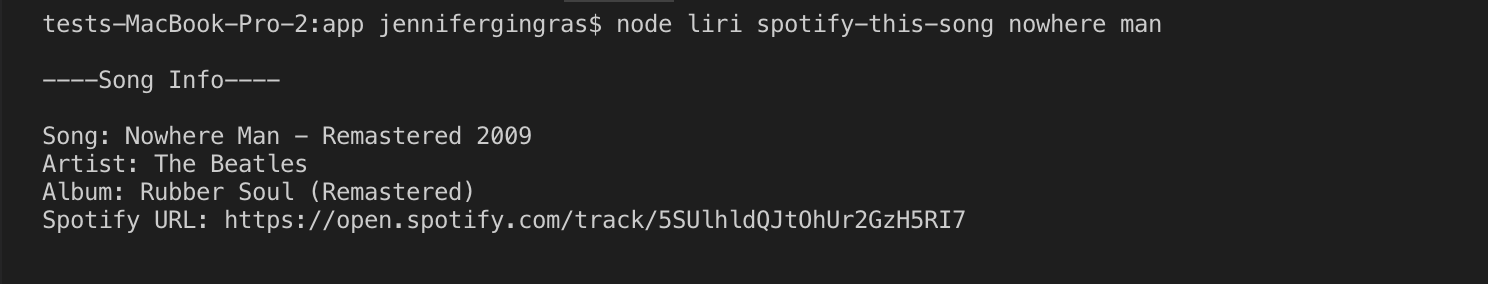
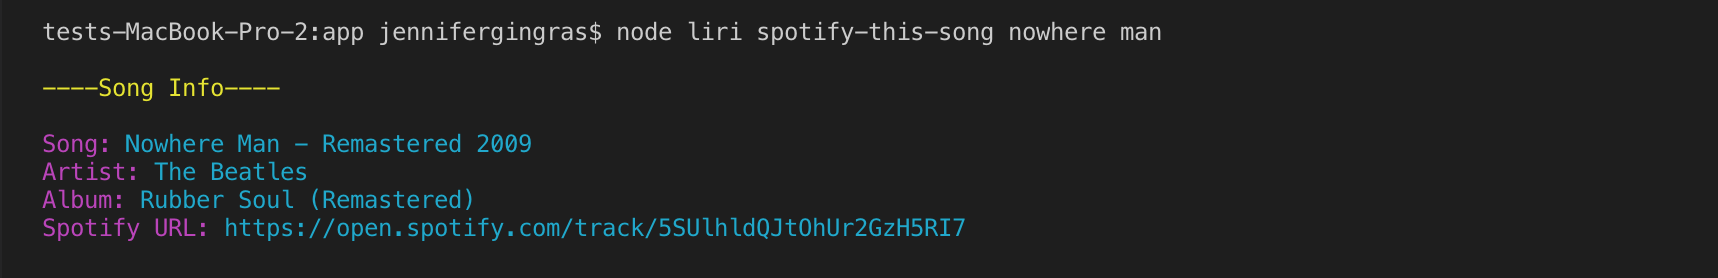
added color to response text

diff --git a/app/liri.js b/app/liri.js
@@ -4,7 +4,13 @@ var moment = require("moment");
 var Spotify = require('node-spotify-api');
 var axios = require("axios");
 var fs = require("fs");
+var chalk = require("chalk");
 
+// text colors
+var title = chalk.yellow;
+var errorMes = chalk.red;
+var listBold = chalk.magenta;
+var list = chalk.cyan;
 
 // BANDS IN TOWN SEARCH
 // ----------------------
@@ -16,17 +22,17 @@ var concert = function (query) {
   var URL = "https://rest.bandsintown.com/artists/" + artist + "/events?app_id=codingbootcamp"
   // use axios.get with query variable
   if (!artist) {
-    console.log("\n-!! Try again, please. Remember to type in an artist or band. !!-\n")
+    console.log(errorMes("\n-!! Try again, please. Remember to type in an artist or band. !!-\n"));
   }
   axios.get(URL).then(function (response, ) {
     // console.log data (name of venue, venue location, date of event (use moment- blech! - to format as MM/DD/YYYY))
     // NB - put each piece of data on a separate line
     var data = response.data[0];
     var time = moment(data.datetime).format("MMMM Do YYYY, h:mm: a");
-    console.log("\n----Upcoming Concert Info----\n" +
-      "\nVenue: " + data.venue.name +
-      "\nLocation: " + data.venue.city + ", " + data.venue.country +
-      "\nTime: " + time +
+    console.log(title("\n----Upcoming Concert Info----\n") + listBold(
+        "\nVenue: ") + list(data.venue.name) + listBold(
+        "\nLocation: ") + list(data.venue.city + ", " + data.venue.country) +
+      listBold("\nTime: ") + list(time) +
       "\n\n");
   });
 
@@ -47,14 +53,14 @@ var spotifySong = function (query) {
         limit: 10,
       })
       .then(function (response) {
-        console.log("\n\n-!! You didn't pick a song, so you get this. !!-")
+        console.log(errorMes("\n\n-!! You didn't pick a song, so you get this. !!-"));
         var data = response.tracks.items[0];
-        console.log("\n----Song Info----\n" +
-          "\nSong: " + data.name +
-          "\nArtist: " + data.artists[0].name +
-          "\nAlbum: " + data.album.name +
-          "\nSpotify URL: " + data.external_urls.spotify +
-          "\n\n")
+        console.log(title("\n----Song Info----\n") + listBold(
+            "\nSong: ") + list(data.name) + listBold(
+            "\nArtist: ") + list(data.artists[0].name) + listBold(
+            "\nAlbum: ") + list(data.album.name) + listBold(
+            "\nSpotify URL: ") + list(data.external_urls.spotify) +
+          "\n\n");
       })
   } else {
     spotify.search({
@@ -65,12 +71,12 @@ var spotifySong = function (query) {
       .then(function (response) {
         // console.log data (artist, song's name, preview lin of song from Spotify, album name)
         var data = response.tracks.items[0];
-        console.log("\n----Song Info----\n" +
-          "\nSong: " + data.name +
-          "\nArtist: " + data.artists[0].name +
-          "\nAlbum: " + data.album.name +
-          "\nSpotify URL: " + data.external_urls.spotify +
-          "\n\n")
+        console.log(title("\n----Song Info----\n") + listBold(
+            "\nSong: ") + list(data.name) + listBold(
+            "\nArtist: ") + list(data.artists[0].name) + listBold(
+            "\nAlbum: ") + list(data.album.name) + listBold(
+            "\nSpotify URL: ") + list(data.external_urls.spotify) +
+          "\n\n");
       })
   }
 }
@@ -88,23 +94,23 @@ var movie = function (query) {
   // create default for no input
   if (!movieTitle) {
     URL = "http://www.omdbapi.com/?t=mr+nobody&apikey=trilogy&"
-    console.log("\n-!! You didn't pick a movie, so you get this. !!-")
+    console.log(errorMes("\n-!! You didn't pick a movie, so you get this. !!-"));
   }
   // use axios.get with query variable
   axios.get(URL).then(function (response) {
       var data = response.data;
       if (data.Title === undefined) {
-        console.log("\n\n--Could not find title. Check your spelling and try again.--\n\n")
+        console.log(errorMes("\n\n--Could not find title. Check your spelling and try again.--\n\n"));
       } else {
-        console.log("\n----Movie Info----\n" +
-          "\nTitle: " + data.Title +
-          "\nYear Released: " + data.Year +
-          "\nIMDB Rating: " + data.imdbRating +
-          // "\nRotten Tomatoes Rating: " + data.Ratings[1].Value +
-          "\nCountry: " + data.Country +
-          "\nLanguage: " + data.Language +
-          "\nSummary: " + data.Plot +
-          "\nCast: " + data.Actors +
+        console.log(title("\n----Movie Info----\n") + listBold(
+            "\nTitle: ") + list(data.Title) + listBold(
+            "\nYear Released: ") + list(data.Year) + listBold(
+            "\nIMDB Rating: ") + list(data.imdbRating) +
+          // "\nRotten Tomatoes Rating: " + data.Ratings[1].Value + 
+          listBold("\nCountry: ") + list(data.Country) +
+          listBold("\nLanguage: ") + list(data.Language) +
+          listBold("\nSummary: ") + list(data.Plot) +
+          listBold("\nCast: ") + list(data.Actors) +
           "\n\n");
         // console.log data (title, year, IMDB rating, Rotten Tomatoes rating, country, language, plot, actors)
       }
@@ -151,5 +157,5 @@ switch (command) {
     doWhat();
     break;
   default:
-    console.log("\n\n-!! Something went wrong. Make sure you typed your command correctly. !!-\n\n");
+    console.log(errorMes("\n\n-!! Something went wrong. Make sure you typed your command correctly. !!-\n\n"));
 }

diff --git a/README.md b/README.md
@@ -43,6 +43,7 @@ The commands run like so:
 > `node liri.js <command> <search parameter>`
 
 ## See it in Action!
+Because (as mentioned before) the command line is quite plain, LIRI uses an npm called 'Chalk' to change the color of the informational text and improve legibility. 
 
 **Bands in Town**  
 Search for single or multi-word artists and band names.
